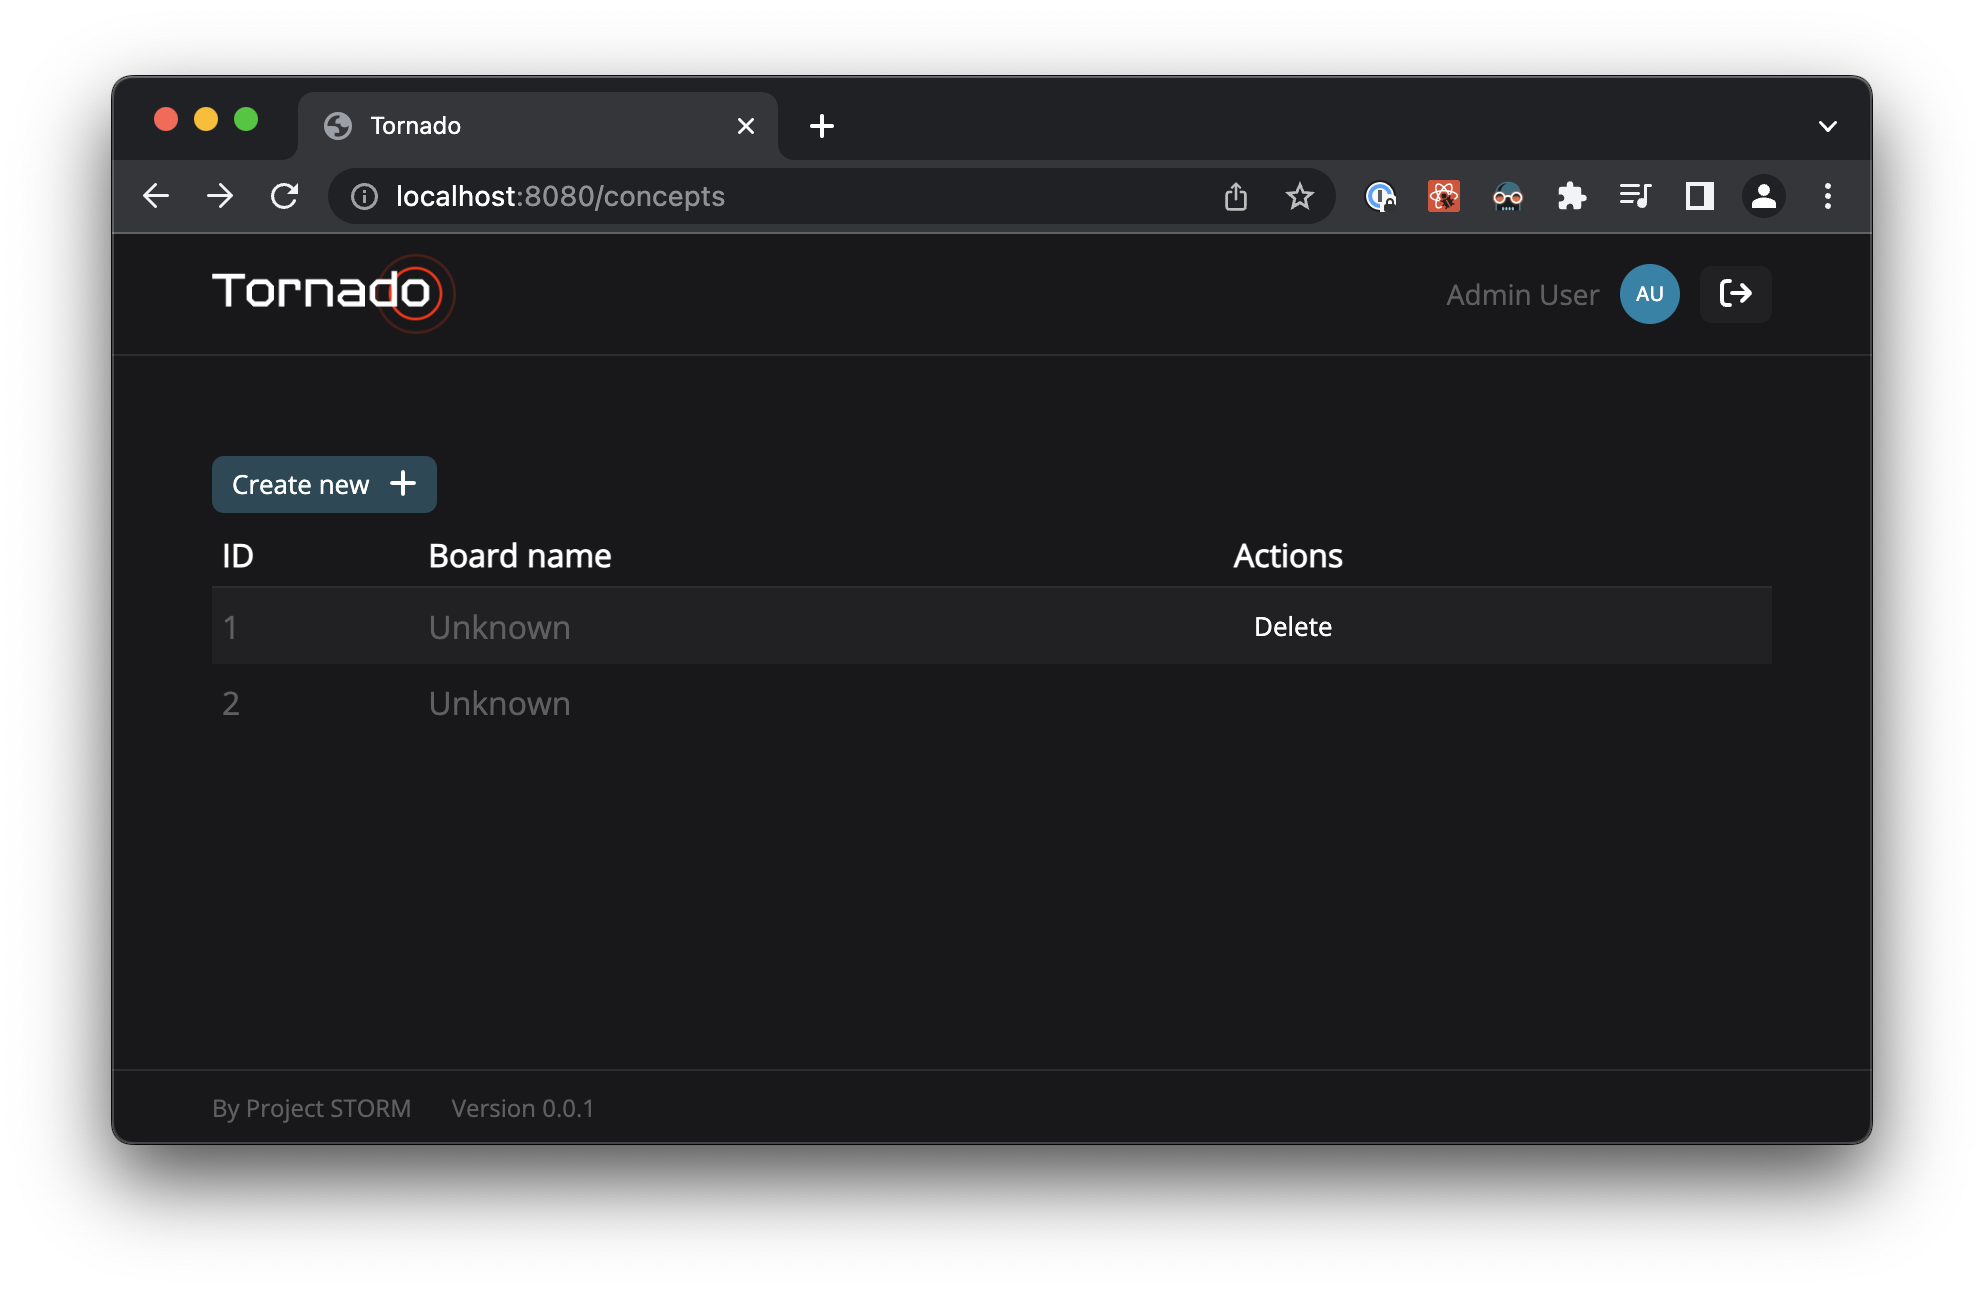
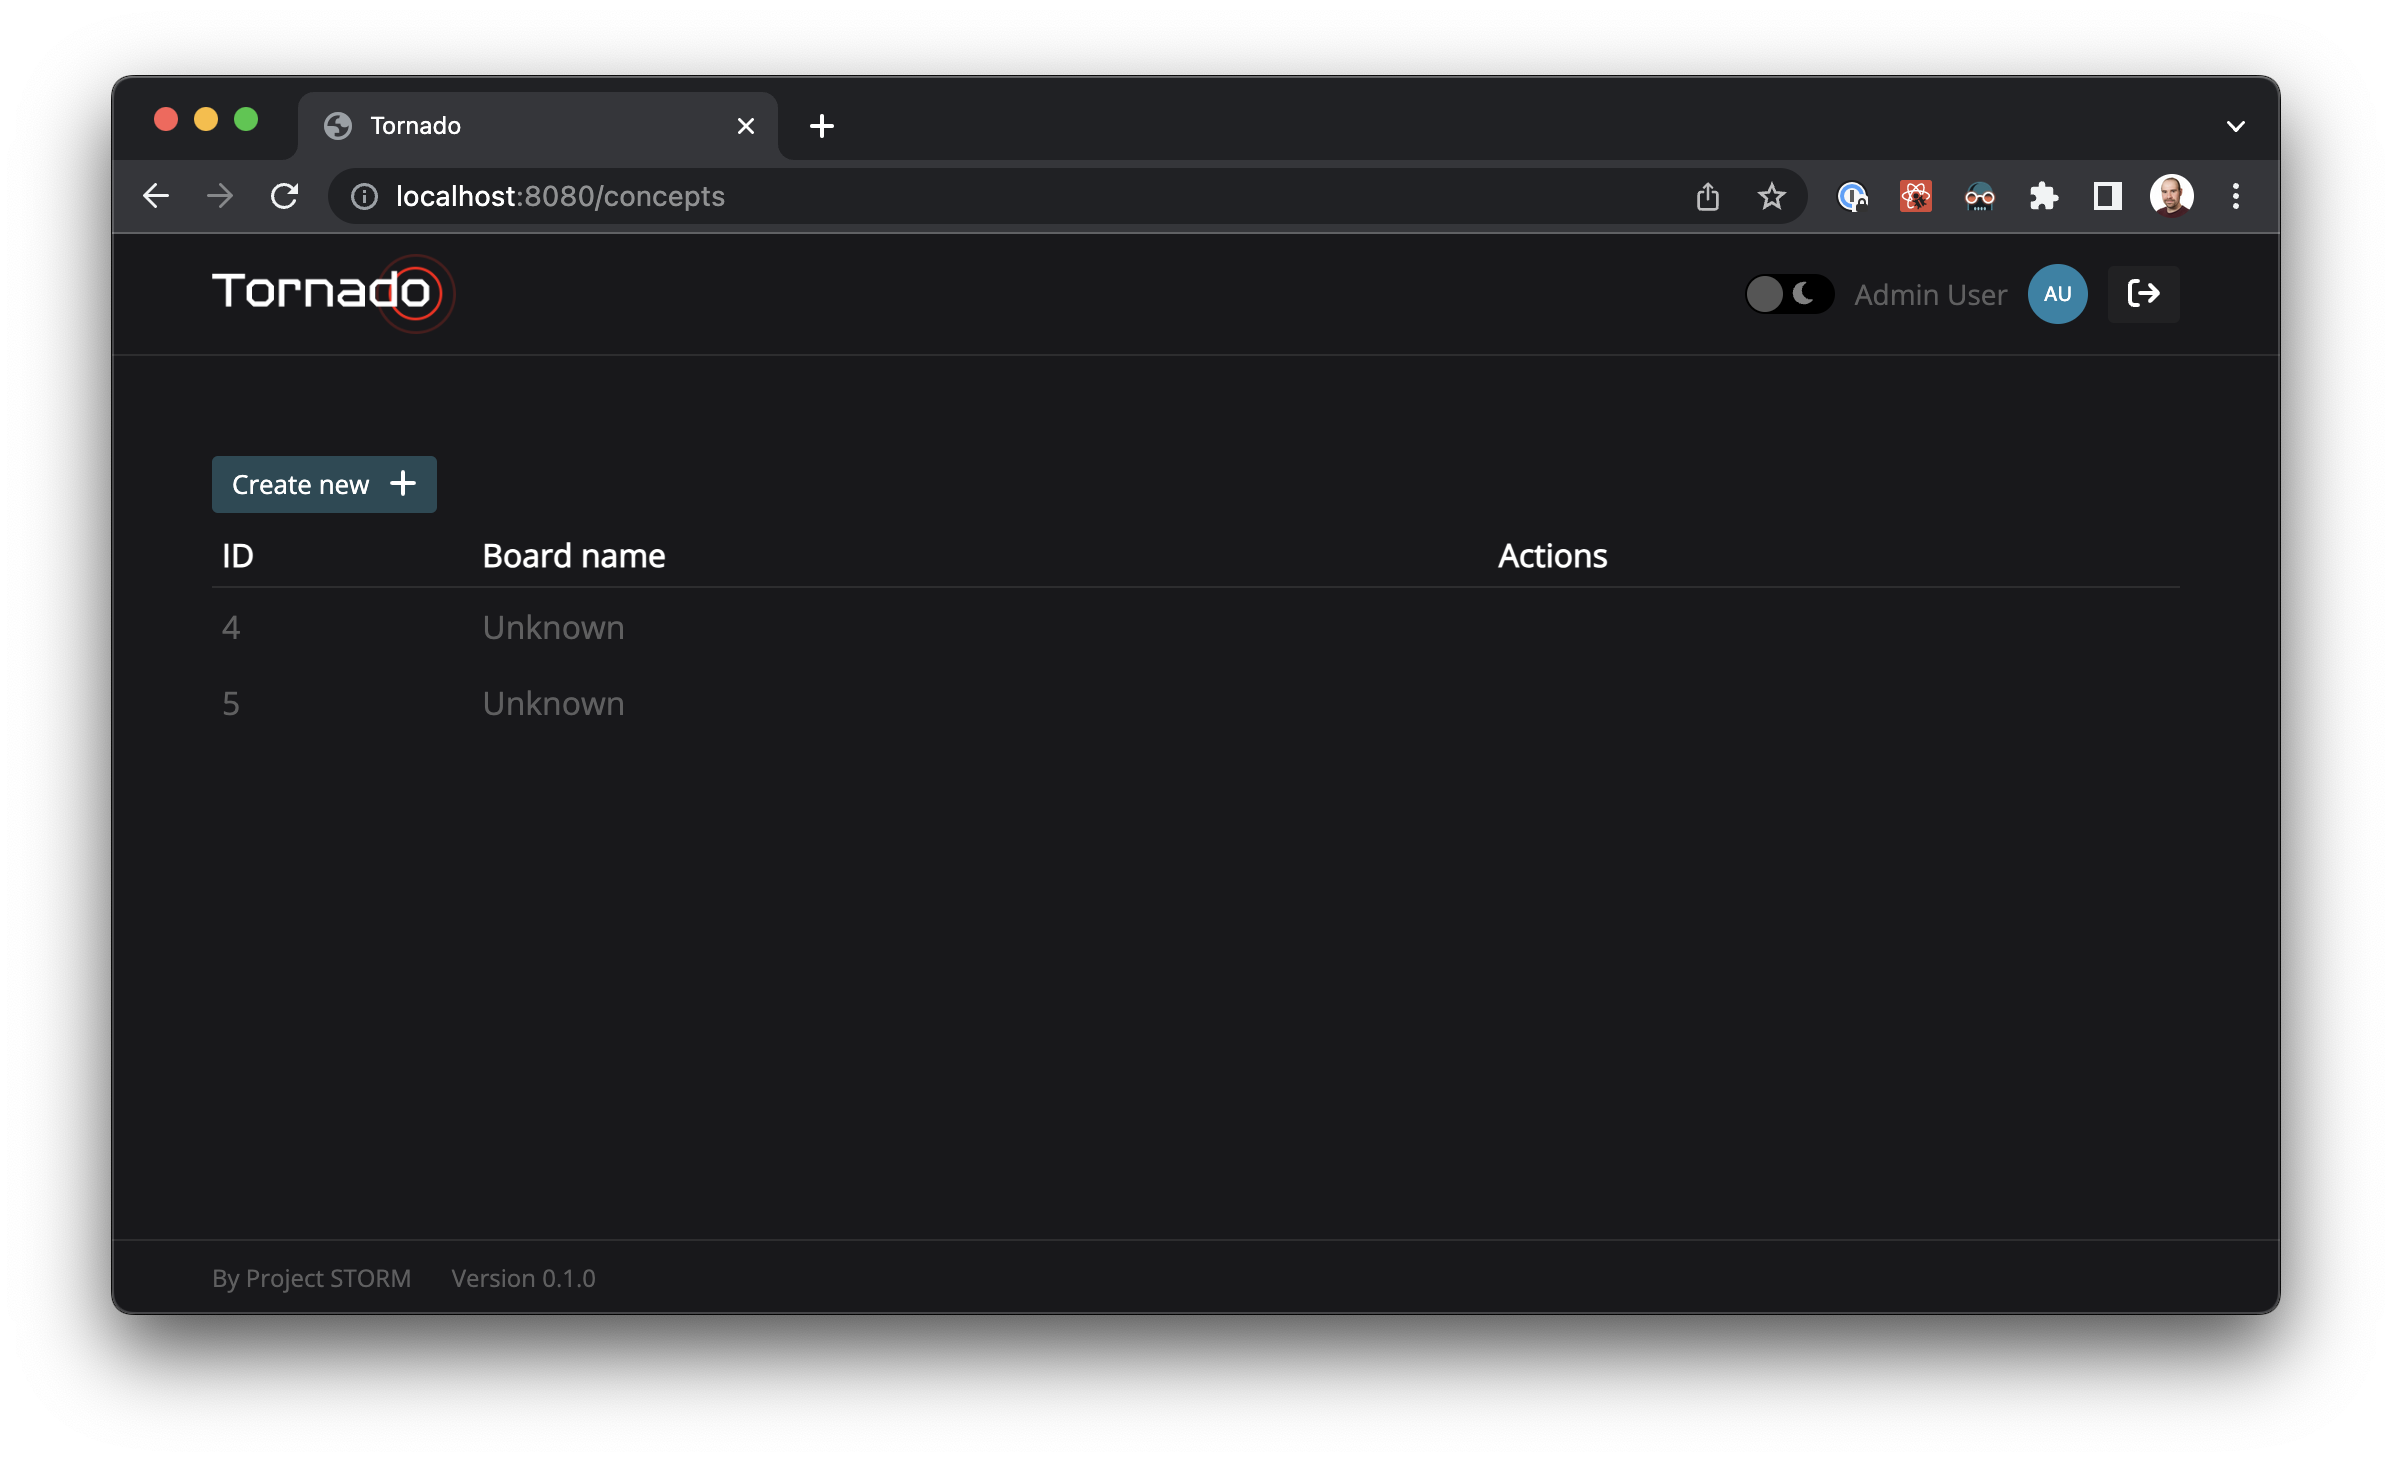
update readme

Changed region(s): [[0.0312, 0.031, 0.9688, 0.9288], [0.625, 0.3715, 0.6875, 0.4954], [0.2188, 0.5263, 0.2812, 0.5573]]

diff --git a/README.md b/README.md
@@ -17,8 +17,11 @@ You can simply drag in images, or paste images you have copied in your clipboard
 
 * SPA (Single Page App)
 * Multiple Users
+* Light and dark mode
 * Email + password authentication
 * Image resizing on the server
+* Canvas zoom and translate
+* Image paste from clipboard and translate
 
 ![](./images/screenshot.png)
 ![](./images/screenshot2.png)
